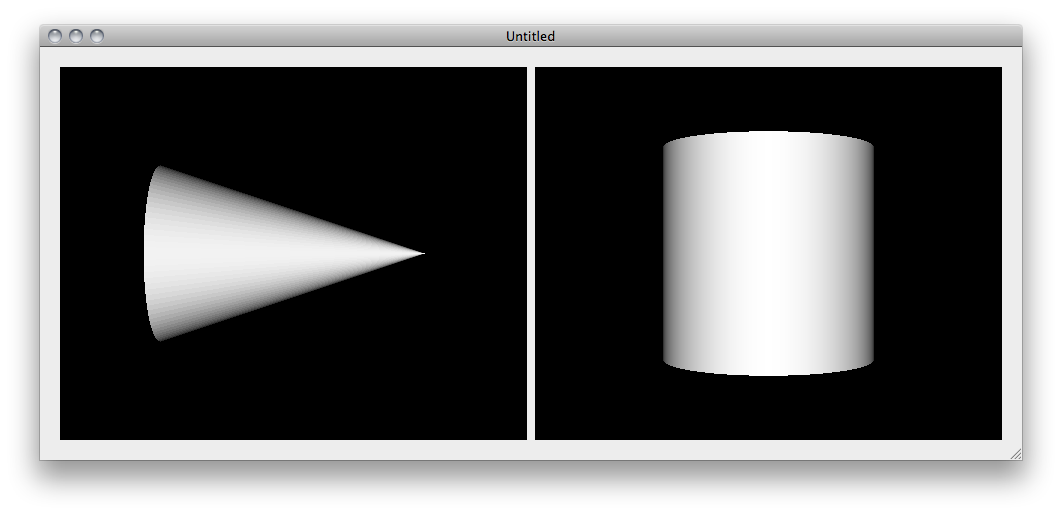
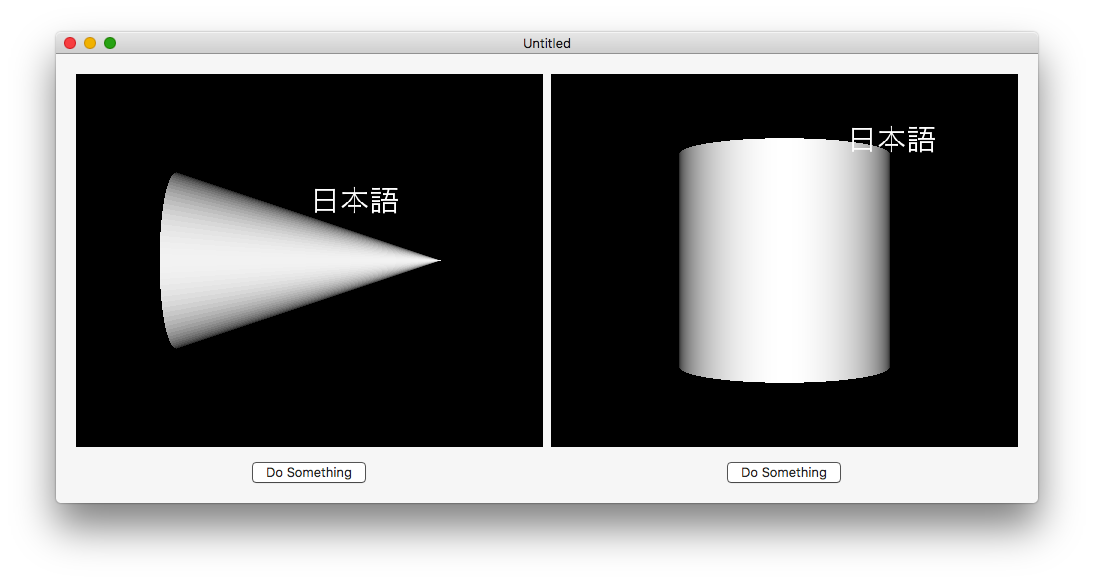
Updated example to show both Retina and non-Retina
Also added a vtkTextActor with Japanese text as a demonstration of how to get the macOS system font appropriate for passing to VTK.

Updated read me and screenshot.

Changed region(s): [[0.0311, 0.0311, 0.9944, 0.9631], [0.1243, 0.2796, 0.404, 0.6524]]

diff --git a/Examples/GUI/Cocoa/MyWindowController.mm b/Examples/GUI/Cocoa/MyWindowController.mm
@@ -8,6 +8,8 @@
 #import "vtkCylinderSource.h"
 #import "vtkPolyDataMapper.h"
 #import "vtkSmartPointer.h"
+#import "vtkTextActor.h"
+#import "vtkTextProperty.h"
 
 // Private Interface
 @interface MyWindowController()
@@ -18,16 +20,48 @@
 @implementation MyWindowController
 
 // ----------------------------------------------------------------------------
+// Private helper method to get the path to the system font appropriate for
+// the given font and font size.
++ (nullable NSURL*)fontPathForString:(nullable NSString*)inString
+                                size:(CGFloat)inSize
+{
+  NSURL* fontUrl = nil;
+
+  if (inString)
+  {
+    NSFont* startFont = [NSFont systemFontOfSize:inSize];
+    CTFontRef font = CTFontCreateForString((__bridge CTFontRef)startFont,
+                                           (__bridge CFStringRef)inString,
+                                           CFRangeMake(0, [inString length]));
+    if (font)
+    {
+      NSFontDescriptor* fontDesc = [(__bridge NSFont*)font fontDescriptor];
+      fontUrl = [fontDesc objectForKey:(__bridge NSString*)kCTFontURLAttribute];
+
+      CFRelease(font);
+    }
+  }
+
+  return fontUrl;
+}
+
+// ----------------------------------------------------------------------------
 - (void)setupLeftVTKView
 {
-  [[self leftVTKView] initializeVTKSupport];
+  BasicVTKView* thisView = [self leftVTKView];
+
+  // Explicitly enable HiDPI/Retina (this is the default anyway).
+  [thisView setWantsBestResolutionOpenGLSurface:YES];
+
+  [thisView initializeVTKSupport];
 
   // 'smart pointers' are used because they are very similar to reference counting in Cocoa.
 
   // Personal Taste Section. I like to use a trackball interactor
   vtkSmartPointer<vtkInteractorStyleSwitch> intStyle = vtkSmartPointer<vtkInteractorStyleSwitch>::New();
   intStyle->SetCurrentStyleToTrackballCamera();
-  [[self leftVTKView] getInteractor]->SetInteractorStyle(intStyle);
+  [thisView getInteractor]->SetInteractorStyle(intStyle);
+
 
   // Create a cone, see the "VTK User's Guide" for details
   vtkSmartPointer<vtkConeSource> cone = vtkSmartPointer<vtkConeSource>::New();
@@ -41,23 +75,48 @@
   vtkSmartPointer<vtkActor> coneActor = vtkSmartPointer<vtkActor>::New();
   coneActor->SetMapper(coneMapper);
 
-  [[self leftVTKView] getRenderer]->AddActor(coneActor);
+  [thisView getRenderer]->AddActor(coneActor);
+
+
+  // Create a text actor.
+  NSString* string = @"日本語";
+  int fontSize = 30;
+  vtkSmartPointer<vtkTextActor> textActor = vtkSmartPointer<vtkTextActor>::New();
+  textActor->SetPickable(false);
+  textActor->SetInput([string UTF8String]);
+  vtkTextProperty* properties = textActor->GetTextProperty();
+  NSURL* fontURL = [[self class] fontPathForString:string size:fontSize];
+  properties->SetFontFile([fontURL fileSystemRepresentation]);
+  properties->SetFontFamily(VTK_FONT_FILE);
+  properties->SetFontSize(fontSize);
+  vtkCoordinate* coord = textActor->GetPositionCoordinate();
+  coord->SetCoordinateSystemToWorld();
+  coord->SetValue(0.0, 0.5, 0.0);
+  [thisView getRenderer]->AddViewProp(textActor);
+
 
   // Tell the system that the view needs to be redrawn
-  [[self leftVTKView] setNeedsDisplay:YES];
+  [thisView setNeedsDisplay:YES];
 }
 
 // ----------------------------------------------------------------------------
 - (void)setupRightVTKView
 {
-  [[self rightVTKView] initializeVTKSupport];
+  BasicVTKView* thisView = [self rightVTKView];
+
+  // Explicitly disable HiDPI/Retina as a demonstration of the difference.
+  // One might want to disable it to reduce memory usage / increase performance.
+  [thisView setWantsBestResolutionOpenGLSurface:NO];
+
+  [thisView initializeVTKSupport];
 
   // 'smart pointers' are used because they are very similar to reference counting in Cocoa.
 
   // Personal Taste Section. I like to use a trackball interactor
   vtkSmartPointer<vtkInteractorStyleSwitch> intStyle = vtkSmartPointer<vtkInteractorStyleSwitch>::New();
   intStyle->SetCurrentStyleToTrackballCamera();
-  [[self rightVTKView] getInteractor]->SetInteractorStyle(intStyle);
+  [thisView getInteractor]->SetInteractorStyle(intStyle);
+
 
   // Create a cylinder, see the "VTK User's Guide" for details
   vtkSmartPointer<vtkCylinderSource> cylinder = vtkSmartPointer<vtkCylinderSource>::New();
@@ -69,10 +128,28 @@
   vtkSmartPointer<vtkActor> cylinderActor = vtkSmartPointer<vtkActor>::New();
   cylinderActor->SetMapper(cylinderMapper);
 
-  [[self rightVTKView] getRenderer]->AddActor(cylinderActor);
+  [thisView getRenderer]->AddActor(cylinderActor);
+
+
+  // Create a text actor.
+  NSString* string = @"日本語";
+  int fontSize = 30;
+  vtkSmartPointer<vtkTextActor> textActor = vtkSmartPointer<vtkTextActor>::New();
+  textActor->SetPickable(false);
+  textActor->SetInput([string UTF8String]);
+  vtkTextProperty* properties = textActor->GetTextProperty();
+  NSURL* fontURL = [[self class] fontPathForString:string size:fontSize];
+  properties->SetFontFile([fontURL fileSystemRepresentation]);
+  properties->SetFontFamily(VTK_FONT_FILE);
+  properties->SetFontSize(fontSize);
+  vtkCoordinate* coord = textActor->GetPositionCoordinate();
+  coord->SetCoordinateSystemToWorld();
+  coord->SetValue(0.3, 0.5, 0.0);
+  [thisView getRenderer]->AddViewProp(textActor);
+
 
   // Tell the system that the view needs to be redrawn
-  [[self rightVTKView] setNeedsDisplay:YES];
+  [thisView setNeedsDisplay:YES];
 }
 
 #pragma mark -
